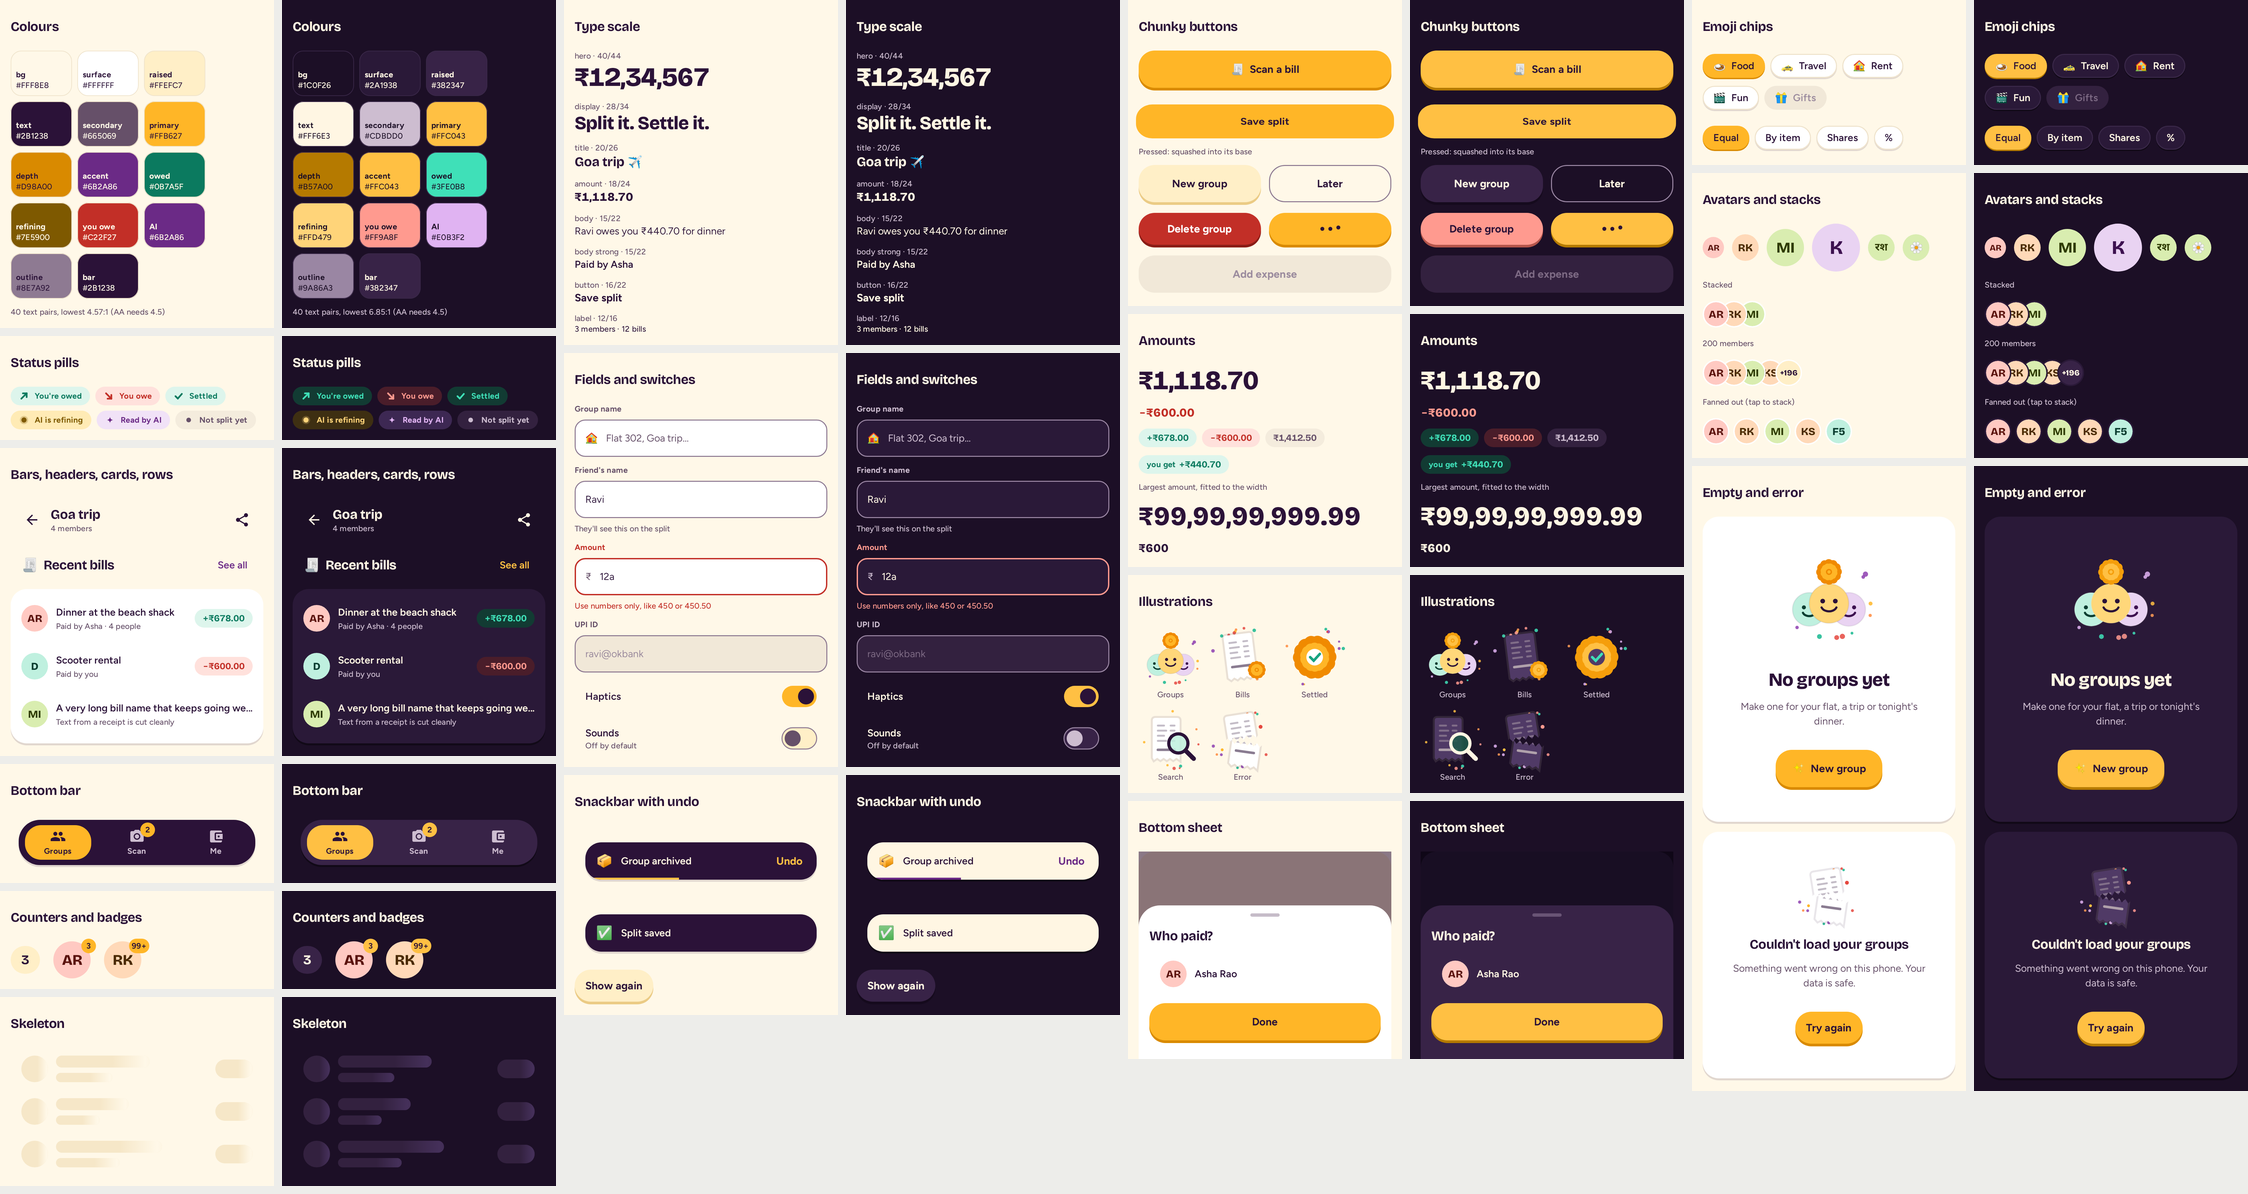
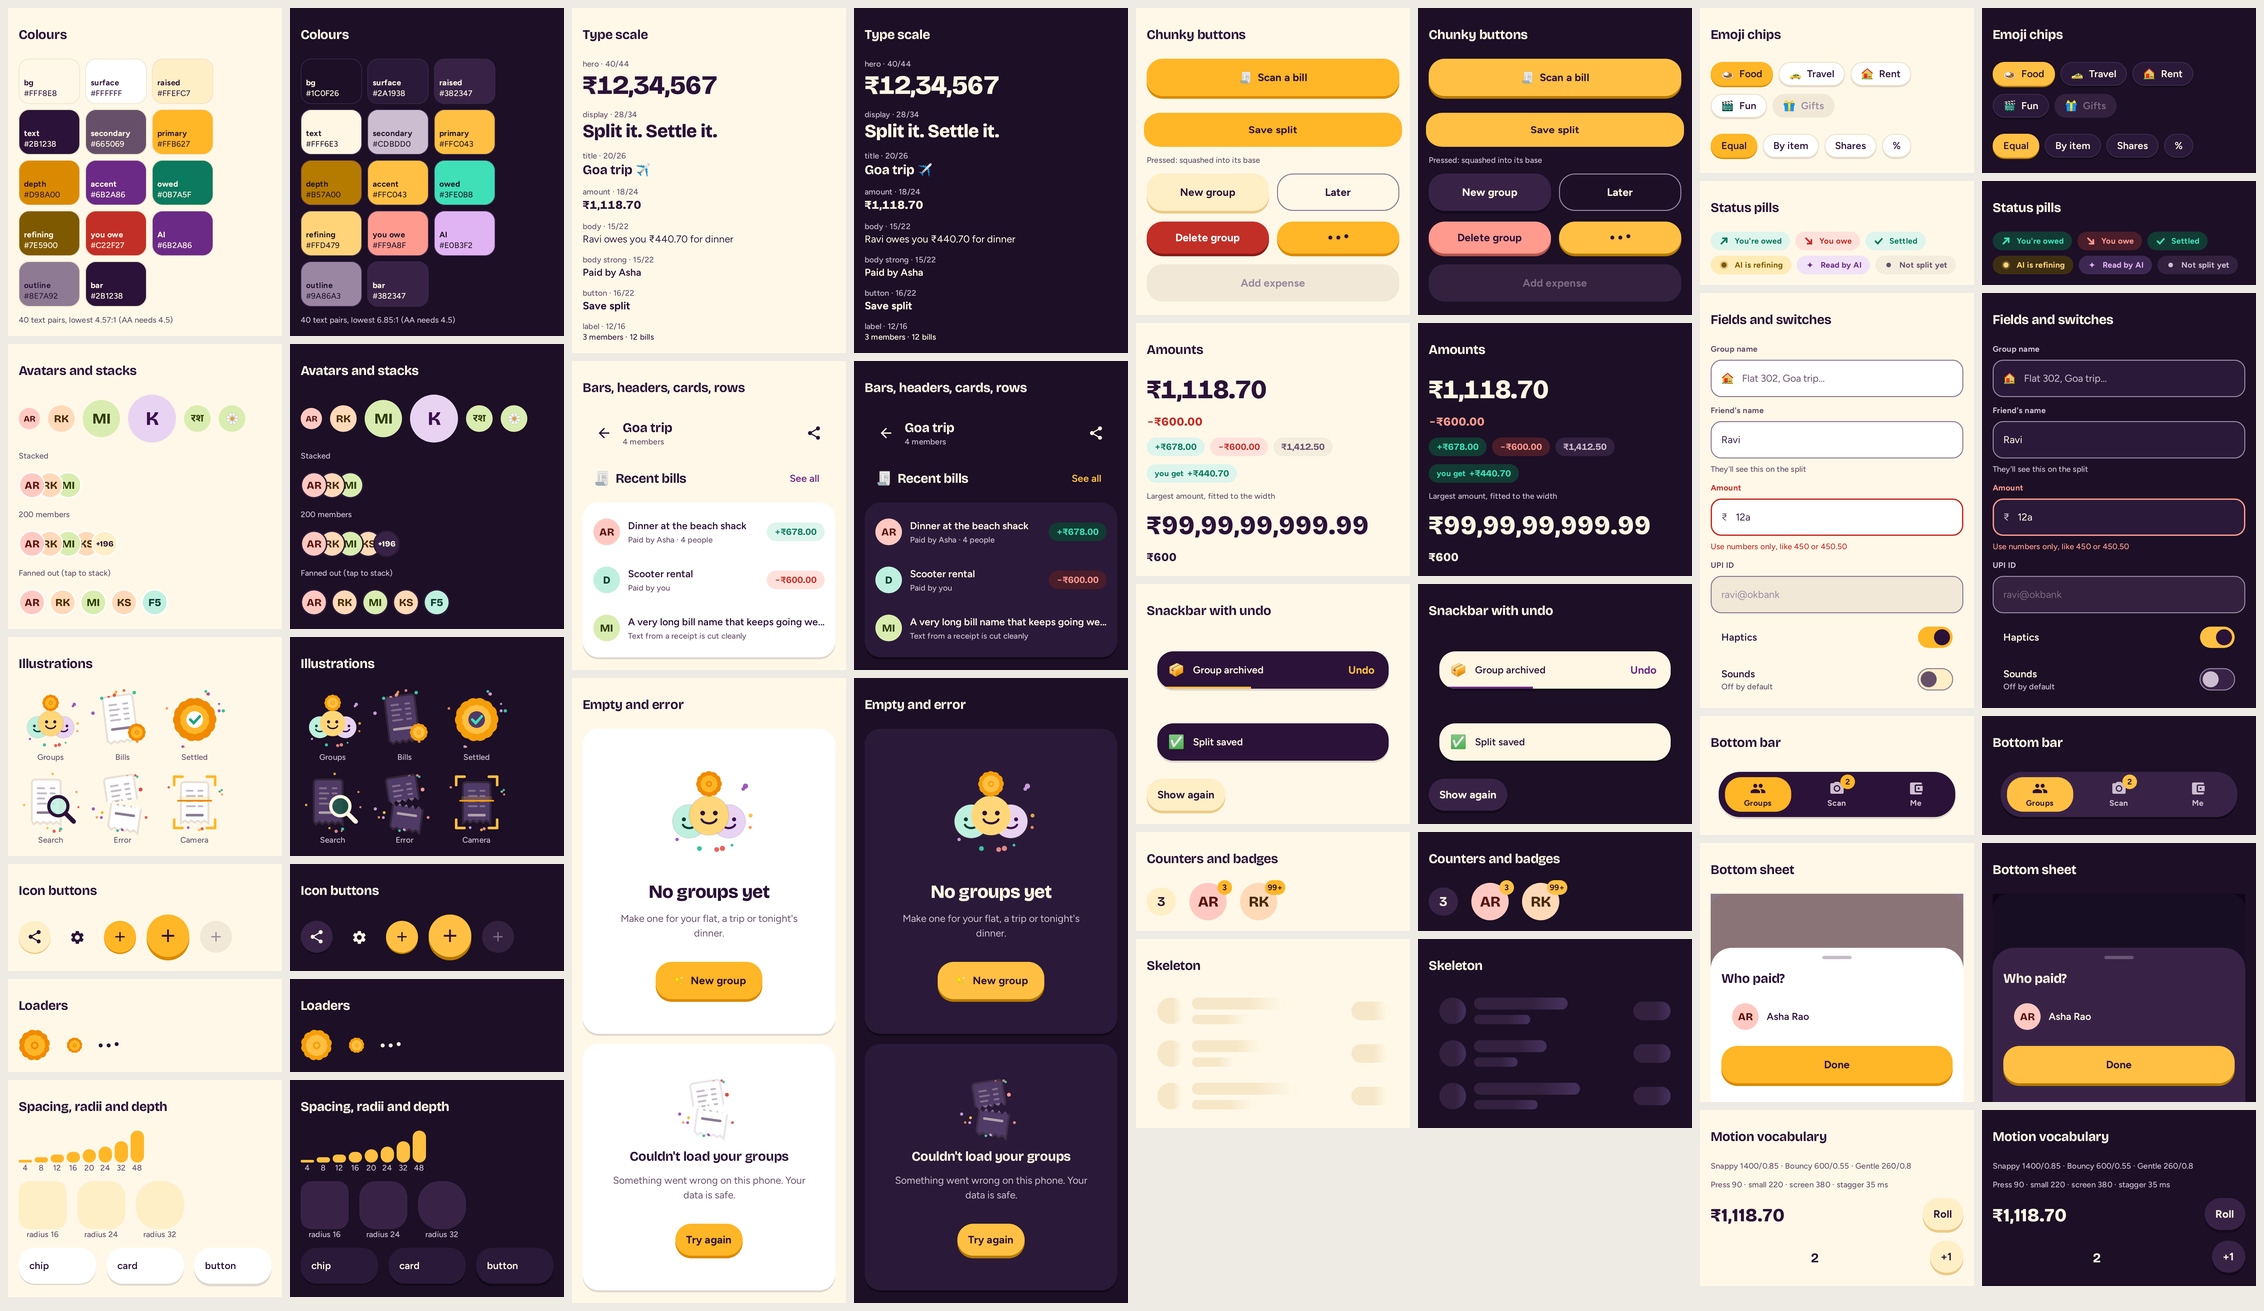
docs(ui): record the whole-app design QA and rebuild the catalog image
- scripts/design_catalog.py builds docs/screenshots/design-catalog.png
  from the ds_* light/dark baselines (Pillow, 8 masonry columns of 274 px,
  light and dark side by side); the image now has all 20 catalog sections.
- DECISIONS: the row 14 design QA (emoji, the no-key card and tone rule,
  one error page, headings, reduced motion on list rows, faithful
  screenshots, real names out of the docs, benchmarks).
- SECURITY_REVIEW: row 14 entry.

diff --git a/scripts/design_catalog.py b/scripts/design_catalog.py
@@ -1,0 +1,98 @@
+#!/usr/bin/env python3
+"""Builds docs/screenshots/design-catalog.png from the design-system screenshot baselines.
+
+Every catalog section has a light and a dark baseline (app/src/test/screenshots/ds_<section>_light.png / _dark.png). Each is
+scaled to a 274 px wide tile; the light tile goes in an even column and its dark twin beside it, and each pair lands under the
+shortest of the four column pairs (masonry, 8 columns). Variants (1.3x text, reduced motion) and mid-animation frames are left out:
+they are in the screenshot folder and would only repeat a section.
+
+    python3 scripts/design_catalog.py            # writes docs/screenshots/design-catalog.png
+    python3 scripts/design_catalog.py --check    # prints the sections it would use, writes nothing
+
+Needs Pillow. Run it after a design-system baseline is re-recorded.
+"""
+import argparse
+import re
+import sys
+from pathlib import Path
+
+ROOT = Path(__file__).resolve().parent.parent
+SHOTS = ROOT / "app" / "src" / "test" / "screenshots"
+OUT = ROOT / "docs" / "screenshots" / "design-catalog.png"
+
+TILE = 274          # column width in px
+GAP = 8             # space between tiles and around the edge
+PAIRS = 4           # 4 light/dark column pairs = 8 columns
+BACKGROUND = (238, 235, 229)
+# Sections in reading order: the first ones start the columns, so the palette and type lead.
+ORDER = ["colors", "type", "buttons", "chips", "status", "inputs", "amounts", "avatars", "structure", "snackbar",
+         "illustrations", "states", "bottom_bar", "counters", "sheet", "icon_buttons", "skeleton", "loaders", "shape", "motion"]
+SECTION = re.compile(r"^ds_(?P<name>[a-z_]+?)_(?P<theme>light|dark)\.png$")
+
+
+def sections() -> list[str]:
+    found: dict[str, set[str]] = {}
+    for path in SHOTS.glob("ds_*.png"):
+        match = SECTION.match(path.name)
+        if match and not match["name"].startswith("motion_"):
+            found.setdefault(match["name"], set()).add(match["theme"])
+    paired = [name for name, themes in found.items() if themes == {"light", "dark"}]
+    return sorted(paired, key=lambda n: (ORDER.index(n) if n in ORDER else len(ORDER), n))
+
+
+def tile(image):
+    from PIL import Image
+
+    height = round(image.height * TILE / image.width)
+    return image.convert("RGB").resize((TILE, height), Image.LANCZOS)
+
+
+def build(names: list[str]):
+    from PIL import Image
+
+    pairs = []
+    for name in names:
+        light = tile(Image.open(SHOTS / f"ds_{name}_light.png"))
+        dark = tile(Image.open(SHOTS / f"ds_{name}_dark.png"))
+        pairs.append((light, dark))
+
+    heights = [GAP] * PAIRS
+    placed = []
+    for light, dark in pairs:
+        column = heights.index(min(heights))
+        placed.append((column, heights[column], light, dark))
+        heights[column] += max(light.height, dark.height) + GAP
+
+    width = GAP + PAIRS * 2 * (TILE + GAP)
+    canvas = Image.new("RGB", (width, max(heights)), BACKGROUND)
+    for column, top, light, dark in placed:
+        left = GAP + column * 2 * (TILE + GAP)
+        canvas.paste(light, (left, top))
+        canvas.paste(dark, (left + TILE + GAP, top))
+    return canvas
+
+
+def main() -> int:
+    parser = argparse.ArgumentParser(description=__doc__.splitlines()[0])
+    parser.add_argument("--check", action="store_true", help="list the sections, write nothing")
+    args = parser.parse_args()
+    names = sections()
+    if not names:
+        print(f"no ds_*_light/_dark pairs in {SHOTS}", file=sys.stderr)
+        return 1
+    print(f"{len(names)} sections: {', '.join(names)}")
+    if args.check:
+        return 0
+    try:
+        image = build(names)
+    except ImportError:
+        print("Pillow is missing: python3 -m venv build/venv && build/venv/bin/pip install pillow", file=sys.stderr)
+        return 2
+    OUT.parent.mkdir(parents=True, exist_ok=True)
+    image.save(OUT, optimize=True)
+    print(f"wrote {OUT.relative_to(ROOT)} {image.width}x{image.height}")
+    return 0
+
+
+if __name__ == "__main__":
+    sys.exit(main())

diff --git a/docs/DECISIONS.md b/docs/DECISIONS.md
@@ -196,3 +196,18 @@ Decisions taken during the build, with the reasoning, so nothing is a surprise l
 - **Legacy gone.** `ui/components/Brand.kt`, `StateViews.kt`, `ui/theme/Color.kt` (`SplitSmartTheme.legacy`) and `ScreenPadding` are deleted; `MaterialSlotsContrastTest`'s hero check now checks the aubergine heroes that replaced the old hero card. `scripts/token_audit_legacy.txt` keeps its header and no entries. Four unused drawables went with Brand.kt.
 - **Design-system additions:** `Modifier.filterTouchesWhenObscured()` and `FilterObscuredTouches()` (`designsystem/modifiers/ObscuredTouches.kt`), `Strokes.stamp`/`rail`, `Sizes.qrCode`/`insightBar`, `MotionDurations.Shine`. Analytics: `settlement_marked` (method, all_square; no amounts or names).
 - **Compromises:** no undo for removing a payment from the history (the sheet is the confirmation, and it can be marked again); categories are a keyword guess; the glint, the stamp's slam, the bars and the haptics are JVM-checked only (no emulator in this row) and are on the device list after row 14. "You" is still matched by name, so settle-up shows every payment in the group rather than only yours.
+
+## UI overhaul row 14: whole-app design QA (2026-11-10)
+A design-director pass over every screenshot baseline (light, dark, 1.3× text, reduced motion) after five screen rows built by different hands. What changed and why:
+- **Emoji that read right in a rupee app.** 👯 (dancers in bunny ears) headed "Your groups" and "Members" and sat on New group; groups and people are now 👥 everywhere. 💰 ("Each person pays") and 💸 (Settle up, the third intro page) print dollar notes in the common emoji fonts, and 💵 marked a cash payment: what each person pays is 👛, settling up over UPI is 📲, a payment made another way is 🤝. The first choice, 🪙, drew an empty box in the screenshots: it is Unicode 13, newer than the renderer's emoji font, and an older phone that cannot fetch a newer font would show the same box. `EmojiAuditTest` fails the build on any money emoji with a foreign currency sign (💰 💲 💵 💴 💶 💷 💸 💱), on 👯 and on 🪙, in the app's sources and resources.
+- **No Gemini key is a normal state, not an error.** A build without `LLM_API_KEY` is how anyone who clones the repo runs SplitSmart, so the review's "who read the bill" card is a plain card with the neutral pill and user words ("AI reading is off in this build, so the built-in parser read this bill on your phone. Check the lines against the receipt.") instead of the chilli error card with setup instructions. The setup hint for developers moved to a line under Me's "AI receipt reading" row (shown only when AI is off) and stays in the README's setup section. The tone rule is one pure function (`ReviewLogic.sourceTone`): plain for an AI reading, a refining draft or no key; amber (warning, with Try AI again) for failures that trying again can fix (offline, timeout, busy, server, bad answer); chilli (danger) only for real failures that retrying will not fix (the key was rejected, the certificate did not match the pins), whose copy is now in user words too.
+- **One error page.** Seven screens showed four variants: titles "Bill", "Group", "Split bill", "That didn't work" or "Couldn't load …"; "Retry" or "Try again"; settle-up and history offered only Back, under a message that said "Try again"; a bill that no longer exists offered Try again, which can never work. Now every load error is `LoadErrorState`: "Couldn't load this bill / group / split / receipt, settle up, your groups, the history", the reason in plain words ("SplitSmart couldn't read its data on this phone. Try again." / "It isn't on this phone any more. It may have been deleted."), and one button: Try again when reading again can help (settle-up and history gained a `retry()` that re-subscribes), Back when the thing is gone (`ErrorReason.canRetry`). The scan error page keeps its own layout (two actions over the camera) but says Try again too.
+- **One section heading.** The review's "4 items" heading was hand-built (emoji glued to the text with a space); it is now `SsSectionHeader` like every other screen (new `gutter = false` for lists that already keep the 16dp gutter).
+- **Copy that fits the moment.** Settle-up's sheet for adding a UPI ID labelled its only field "UPI ID (optional)"; it is "UPI ID" there (the add-member sheet keeps "optional").
+- **Reduced motion reaches list rows.** Four `animateItem()` calls (split's receipt lines, settle-up's stamp and question cards, the archived groups row) ran on Compose's default springs whatever the Reduce motion setting said; they now take the three specs from the motion vocabulary, and `MotionAuditTest` fails the build on an `animateItem` without them.
+- **Screenshots show what people see.** The groups screenshot harness drew the floating bar over the FAB menu and the New group sheet, which the app never does (sheets and menus call `HideShellBarWhile`); the harness now honours it, so the sheet's Create button and the menu's scrim are visible as on a phone.
+- **Real names out of the docs.** The design-direction wireframes and the load report still named a real café chain and a real restaurant chain from early test receipts; they are invented names now, as in the app.
+- **Checked and kept:** the 4/8dp grid and 16dp gutter on every screen; one type scale (display for page and empty-state titles, title for section and card headings, body and label for text); radii 16 (fields), 24 (cards, buttons), 32 (heroes, sheets, bar); one marigold primary per screen (settle-up: only the largest Pay); aubergine heroes on group, bill and settle-up; designed empty/loading/error states; TalkBack labels on every icon-only button (`ChunkyIconButton` requires one); 48dp targets; keys and content types on every lazy list; the token audit is clean with no legacy budget left.
+- **Compose stability:** `-PcomposeReports=true` (off by default) writes compiler reports and metrics to `app/build/compose_compiler/`; `compose_stability.conf` declares `java.time.*` stable, as in PayFlow.
+- **Benchmarks:** the Baseline Profile journey now covers the whole first evening (intro skipped, group, members, the camera's permission page, a typed bill, split, settle another way, "Yes, mark as paid", history) and a new `JourneyBenchmark` measures frame timing over scan → review → split → settle → history on seeded data. Both compile; neither has run (no device in this row).
+- **Compromises:** offline and other retryable AI failures keep the amber warning tone rather than chilli: the bill was still read and Try AI again can fix it, so it is a warning, not a failure. The design catalog image is rebuilt from the baselines by `scripts/design_catalog.py` (Pillow) and now includes every catalog section. Device-only checks (motion feel, haptics, GPU frame timing, recordings) wait for the combined device session.

diff --git a/docs/SECURITY_REVIEW.md b/docs/SECURITY_REVIEW.md
@@ -308,3 +308,9 @@ One entry per feature, written after attacking the feature as a pentester. Sever
   - A real status check would need a payment service provider; without one, the person's word is the only source, and the UI says so.
   - Settle-up could show only the payments that involve "you" once "you" is a member id rather than a name match.
   - Removing a payment from the history has no undo (it can be marked again).
+
+## UI Feature: Whole-app design QA (row 14)
+- Attacks tried: build and configuration details in user-facing copy (the review card named `LLM_API_KEY`, `local.properties` and HTTP status codes); error pages that offered an action that could not work (Try again on a deleted bill) or none (settle-up and history after a failed read); the new retry on settle-up re-subscribing while a "Did it go through?" question is open; money emoji in screenshots implying another currency; real business names left in docs and test receipts.
+- What broke: Low: the review card showed developer setup details and HTTP codes to every user of a build without a key. Low: two real chain names and a real mall name remained in docs and a parser fixture.
+- Fixed now: the review card speaks in user words for no key, a rejected key and a pin mismatch (tests assert that `LLM_API_KEY` and `local.properties` do not appear there); the setup hint is shown only in Me, only when AI is off. Errors offer Try again only when reading again can help and Back when the item is gone. Settle-up's retry re-reads the group only; the open question lives in `SavedStateHandle` and is untouched (`SettleUpViewModelTest`). Names replaced with invented ones.
+- Scope for improvement: the Me hint still names the build property; a store build would hide it behind `BuildConfig.DEBUG`.
